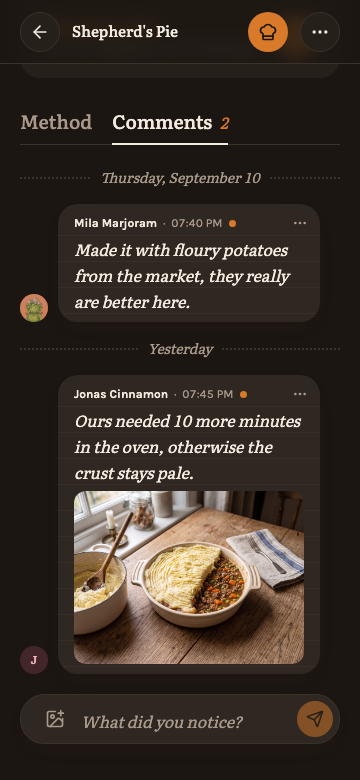
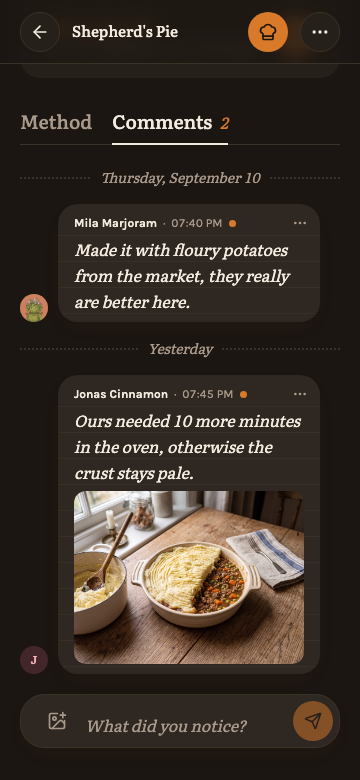
fix(frontend): keep the comment photo limit and the click after a drop

Changed region(s): [[0.2444, 0.9231, 0.7028, 0.9538], [0.7944, 0.8923, 0.9167, 0.9538], [0.1222, 0.8923, 0.1833, 0.9538]]

diff --git a/frontend/e2e/kitchen-diary.test.ts b/frontend/e2e/kitchen-diary.test.ts
@@ -416,11 +416,24 @@ async function drag(page: Page, from: Locator, to: Locator) {
 	for (let i = 1; i <= 12; i++)
 		await page.mouse.move(ax + ((bx - ax) * i) / 12, ay + ((by - ay) * i) / 12);
 	await page.mouse.up();
-	// The drop glides and rings; the sortable eats the click of its own
-	// pointerup for 100ms, so the next click waits for the motion to end.
-	await expect
-		.poll(() => to.locator('xpath=..').evaluate((el) => el.getAnimations({ subtree: true }).length))
-		.toBe(0);
+}
+
+/** Pastes PNGs into `field`, one paste event per entry of `counts`, all in one task. */
+async function pasteImages(field: Locator, counts: number[]) {
+	await field.evaluate(
+		(el, [data, counts]) => {
+			const bytes = Uint8Array.from(atob(data as string), (c) => c.charCodeAt(0));
+			for (const count of counts as number[]) {
+				const transfer = new DataTransfer();
+				for (let i = 1; i <= count; i++)
+					transfer.items.add(new File([bytes], `${i}.png`, { type: 'image/png' }));
+				el.dispatchEvent(
+					new ClipboardEvent('paste', { clipboardData: transfer, bubbles: true, cancelable: true })
+				);
+			}
+		},
+		[tinyPng().toString('base64'), counts]
+	);
 }
 
 /** Three photos told apart by their size: 64x64, 64x96, 96x64. */
@@ -445,16 +458,17 @@ test('reorders picked photos and posts them in that order', async ({ page }) => 
 	await expect(cells).toHaveCount(3);
 	await expect(cells.first().locator('img')).toHaveAttribute('width', '64');
 
+	await diary(page).getByPlaceholder('Something about your photo?').fill('Wide first');
+
 	// Photo 3 onto the large cell: it grows into it, the others move along.
 	await drag(page, cells.nth(2), cells.nth(0));
-	await expect(cells.first().locator('img')).toHaveAttribute('width', '96');
-	await expect(cells.nth(1).locator('img')).toHaveAttribute('height', '64');
-	await expect(cells.nth(1).locator('img')).toHaveAttribute('width', '64');
-
-	await diary(page).getByPlaceholder('Something about your photo?').fill('Wide first');
-	await diary(page).getByRole('button', { name: 'Send' }).click();
+	// Send at once, in the drop's own moment: the sortable eats only the
+	// drop's click, never the next press.
+	const send = (await diary(page).getByRole('button', { name: 'Send' }).boundingBox())!;
+	await page.mouse.click(send.x + send.width / 2, send.y + send.height / 2);
 	const entry = entries(page).filter({ hasText: 'Wide first' });
 	await expect(entry.getByRole('button', { name: 'Open photo 3 of 3' })).toBeVisible();
+	// The large cell is photo 3, posted as it was shown.
 	await expect(entry.locator('img').first()).toHaveAttribute('width', '96');
 	expect(await postedWidths(page, recipe.id, 'Wide first')).toEqual([96, 64, 64]);
 
@@ -503,7 +517,6 @@ test('reorders the photos of a posted comment when editing', async ({ page }) =>
 	const cells = form.getByRole('list', { name: 'Photos in this comment' }).getByRole('listitem');
 	await expect(cells.first().locator('img')).toHaveAttribute('height', '64');
 	await drag(page, cells.nth(1), cells.nth(0));
-	await expect(cells.first().locator('img')).toHaveAttribute('height', '96');
 	await form.getByRole('button', { name: 'Save' }).click();
 
 	await expect(entry.getByText('edited')).toBeVisible();
@@ -518,19 +531,18 @@ test('reorders the photos of a posted comment when editing', async ({ page }) =>
 test('pastes photos into the composer up to four', async ({ page }) => {
 	await freshDiary(page, 'Paste');
 	const field = diary(page).getByPlaceholder('What did you notice?');
-	const png = tinyPng().toString('base64');
-	await field.evaluate((el, data) => {
-		const bytes = Uint8Array.from(atob(data), (c) => c.charCodeAt(0));
-		const transfer = new DataTransfer();
-		for (let i = 1; i <= 5; i++)
-			transfer.items.add(new File([bytes], `${i}.png`, { type: 'image/png' }));
-		el.dispatchEvent(
-			new ClipboardEvent('paste', { clipboardData: transfer, bubbles: true, cancelable: true })
-		);
-	}, png);
+	await pasteImages(field, [5]);
 	await expect(composerPhotos(page).getByRole('listitem')).toHaveCount(4);
 	await expect(page.getByText('Up to 4 photos per comment')).toBeVisible();
 	await expect(diary(page).getByLabel('Add photos')).toBeDisabled();
+});
+
+test('two quick pastes stop at four photos', async ({ page }) => {
+	await freshDiary(page, 'Paste twice');
+	// Both land before either file is decoded: the limit counts the first.
+	await pasteImages(diary(page).getByPlaceholder('What did you notice?'), [3, 3]);
+	await expect(composerPhotos(page).getByRole('listitem')).toHaveCount(4);
+	await expect(page.getByText('Up to 4 photos per comment')).toBeVisible();
 });
 
 test('shows a picked photo large before sending', async ({ page }) => {

diff --git a/frontend/src/lib/components/recipe/DiaryPhotos.svelte b/frontend/src/lib/components/recipe/DiaryPhotos.svelte
@@ -43,7 +43,9 @@
 
 	onDestroy(() => revokePreviews(photos));
 
-	/** The size the lightbox draws a picked file at; a file that will not decode fails on Send. */
+	/** The size the lightbox draws a picked file at; a file that will not decode keeps the guess. */
+	const GUESS = { width: 1600, height: 1200 };
+
 	async function measure(file: File) {
 		try {
 			const bitmap = await createImageBitmap(file);
@@ -51,23 +53,28 @@
 			bitmap.close();
 			return { width, height };
 		} catch {
-			return { width: 1600, height: 1200 };
+			return GUESS;
 		}
 	}
 
 	async function add(files: File[]) {
 		const accepted = acceptFiles(files, max - photos.length, m.diary_photos_limit({ count: max }));
 		if (!accepted.length) return;
-		const picked = await Promise.all(
-			accepted.map(async (file) => ({
-				key: newId(),
-				file,
-				preview: URL.createObjectURL(file),
-				progress: 0,
-				...(await measure(file))
-			}))
-		);
+		// In at once, so the limit holds for the next paste and a Send sees
+		// them; the real size follows when the file is decoded.
+		const picked = accepted.map((file) => ({
+			key: newId(),
+			file,
+			preview: URL.createObjectURL(file),
+			progress: 0,
+			...GUESS
+		}));
 		photos = [...photos, ...picked];
+		for (const { key, file } of picked)
+			void measure(file).then((size) => {
+				const photo = photos.find((p) => p.key === key);
+				if (photo) Object.assign(photo, size);
+			});
 		// The first photo moves the picker under the collage: a new input, which
 		// takes the focus. The fourth disables it: the last remove button takes it.
 		await tick();
@@ -129,10 +136,9 @@
 {#snippet state(index: number)}
 	{@const photo = photos[index]}
 	{@const number = index + 1}
-	{#if photo.failed}
+	{#if photo.failed && !busy}
 		<button
 			type="button"
-			disabled={busy}
 			onclick={onretry}
 			aria-label={m.comments_photo_failed({ number })}
 			class="absolute inset-0 grid place-items-center rounded-md bg-destructive/35 ring-2 ring-destructive ring-inset focus-visible:outline-2 focus-visible:-outline-offset-4 focus-visible:outline-lightbox-foreground"
@@ -257,7 +263,7 @@
 			{/if}
 		</div>
 	{:else}
-		{@render picker('size-9 rounded-full')}
+		{@render picker('size-10 rounded-full')}
 	{/if}
 </div>
 

diff --git a/frontend/src/lib/sortable/sortable.svelte.ts b/frontend/src/lib/sortable/sortable.svelte.ts
@@ -232,13 +232,21 @@ export const sortable: Action<HTMLElement, SortableOptions> = (node, initial) =>
 				face.style.transformOrigin = '';
 			});
 		// The pointerup's own click would open the item that was just put down.
+		// Only that one: the next press or key starts a gesture of its own.
 		if (e.type === 'pointerup') {
 			const swallow = (click: Event) => {
 				click.stopPropagation();
 				click.preventDefault();
 			};
+			const disarm = () => {
+				removeEventListener('click', swallow, { capture: true });
+				removeEventListener('pointerdown', disarm, { capture: true });
+				removeEventListener('keydown', disarm, { capture: true });
+			};
 			addEventListener('click', swallow, { capture: true, once: true });
-			setTimeout(() => removeEventListener('click', swallow, { capture: true }), 100);
+			addEventListener('pointerdown', disarm, { capture: true, once: true });
+			addEventListener('keydown', disarm, { capture: true, once: true });
+			setTimeout(disarm, 100);
 		}
 		const to = opts.keys.indexOf(h.key);
 		if (to !== h.from) moved(h.key, to);

diff --git a/frontend/src/lib/components/recipe/KitchenDiary.svelte b/frontend/src/lib/components/recipe/KitchenDiary.svelte
@@ -312,7 +312,7 @@
 				type="submit"
 				size="sm"
 				disabled={blocked}
-				class="shrink-0 whitespace-nowrap max-md:size-9 max-md:px-0"
+				class="shrink-0 whitespace-nowrap max-md:size-10 max-md:px-0"
 			>
 				{#if progress}
 					<LoaderCircle
